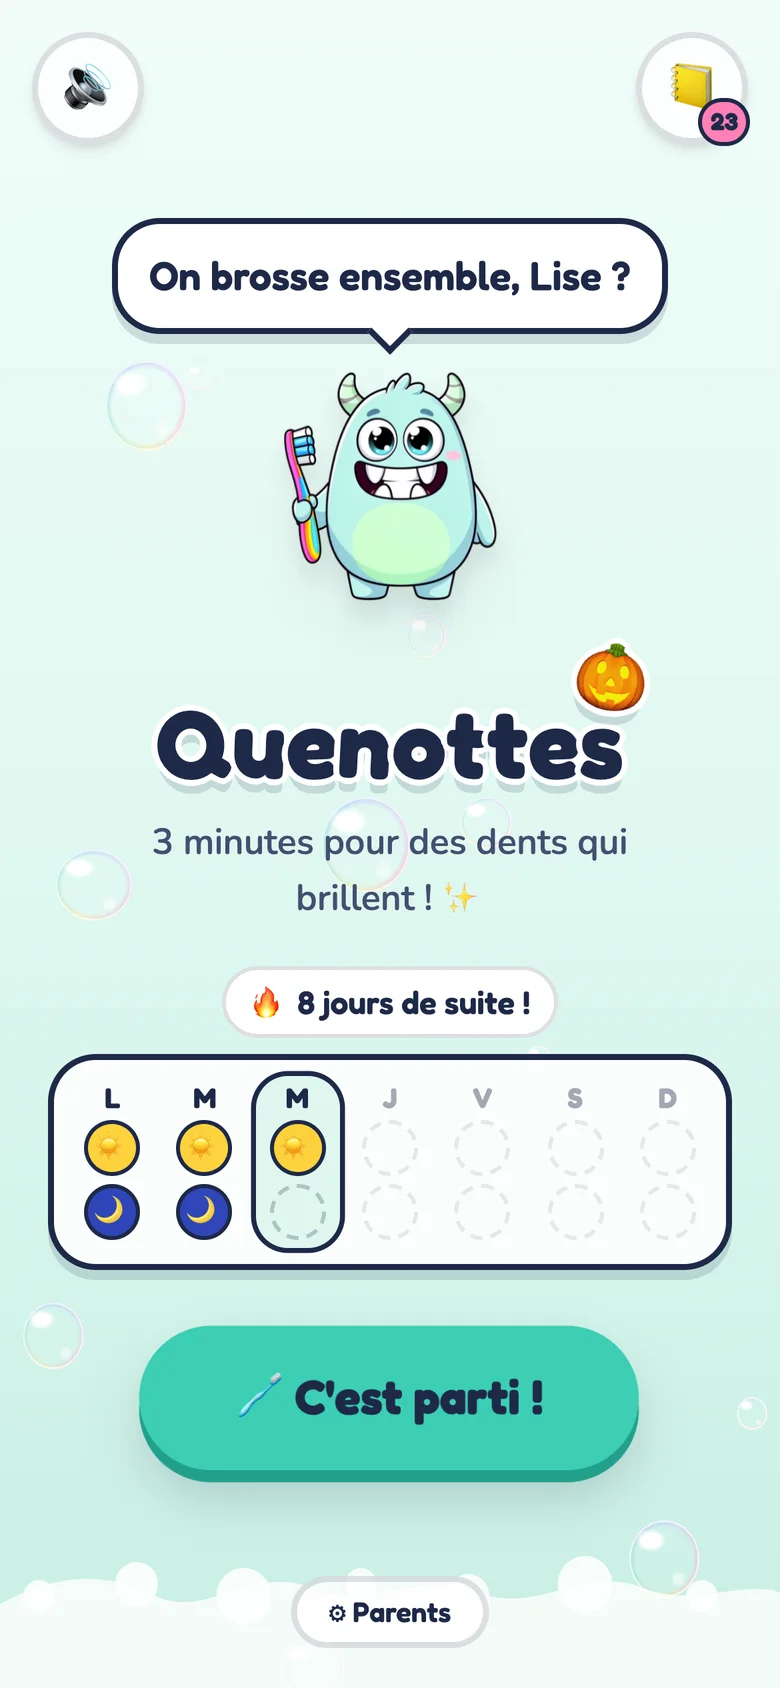
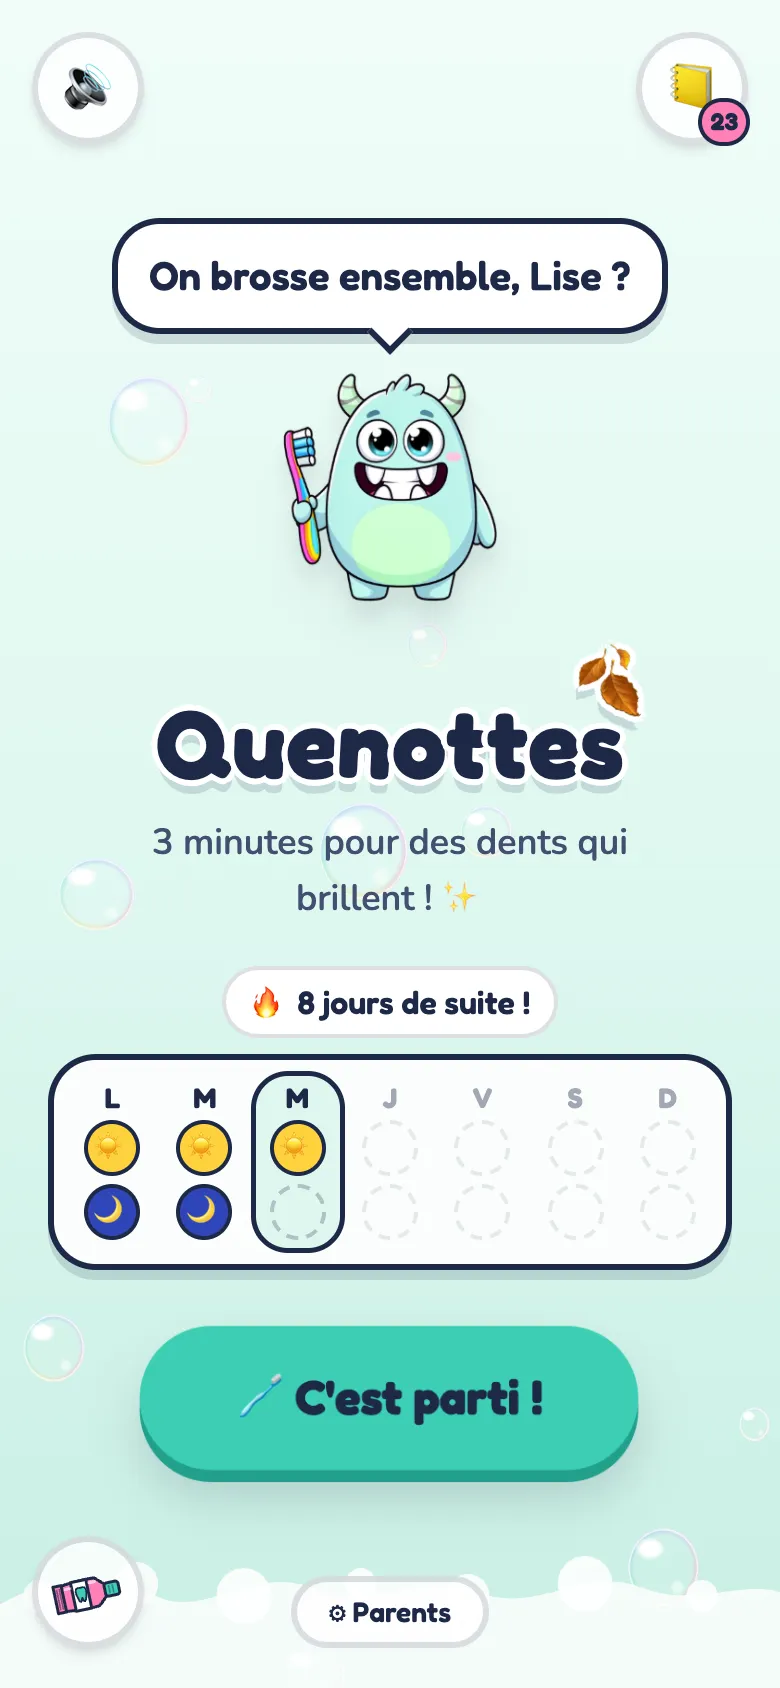
Site: autumn visual in the hero (leaves next to the title), hedgehog sticker card, season-proof sentence
Claude-Session: https://claude.ai/code/session_01Uc35EJkwW7ATBDEk9NH4zu

diff --git a/index.html b/index.html
@@ -113,7 +113,7 @@ img{max-width:100%}
           </li>
           <li style="background:#FFFFFF; border-radius:32px; padding:30px; display:flex; flex-direction:column; gap:14px;">
             <div style="margin:-14px -14px 4px; border-radius:22px; overflow:hidden; background:#F1F3D2; aspect-ratio:4 / 3;">
-              <img src="assets/etape-3-autocollant.webp" alt="Capture de l'app&nbsp;: la carte «&nbsp;Nouvel autocollant&nbsp;! Fantôme&nbsp;» et le bouton «&nbsp;À demain&nbsp;!&nbsp;»" style="display:block; width:100%; height:100%; object-fit:cover;">
+              <img src="assets/etape-3-autocollant.webp" alt="Capture de l'app&nbsp;: la carte «&nbsp;Nouvel autocollant&nbsp;! Hérisson&nbsp;», du thème Automne en forêt, et le bouton «&nbsp;À demain&nbsp;!&nbsp;»" style="display:block; width:100%; height:100%; object-fit:cover;">
             </div>
             <span aria-hidden="true" style="width:56px; height:56px; border-radius:50%; background:#FF7EB6; display:flex; align-items:center; justify-content:center; font-family:'Fredoka', sans-serif; font-weight:700; font-size:1.6rem;">3</span>
             <h3 style="margin:0; font-family:'Fredoka', sans-serif; font-weight:600; font-size:1.45rem;">Bravo, et à ce soir&nbsp;!</h3>
@@ -152,7 +152,7 @@ img{max-width:100%}
               <svg width="30" height="30" viewBox="0 0 24 24" fill="none" stroke="#1E2A4A" stroke-width="2" stroke-linecap="round" stroke-linejoin="round" aria-hidden="true"><path d="M4 4h12l4 4v12H4z"></path><path d="M16 4v4h4"></path><path d="M12 10.5l1.2 2.4 2.6.4-1.9 1.8.5 2.6-2.4-1.3-2.4 1.3.5-2.6-1.9-1.8 2.6-.4z"></path></svg>
             </span>
             <h3 style="margin:0; font-family:'Fredoka', sans-serif; font-weight:600; font-size:1.35rem;">Des autocollants surprise</h3>
-            <p style="margin:0;">Un le matin, un le soir, dans un album à compléter. Et en ce moment, un thème spécial Halloween&nbsp;!</p>
+            <p style="margin:0;">Un le matin, un le soir, dans un album à compléter. Chaque saison apporte son thème&nbsp;: Halloween, l'automne en forêt, le calendrier de l'Avent…</p>
           </article>
           <article style="background:#E6F1FF; border-radius:32px; padding:26px; display:flex; flex-direction:column; gap:12px;">
             <span aria-hidden="true" style="width:60px; height:60px; border-radius:50%; background:#FFFFFF; display:flex; align-items:center; justify-content:center;">
